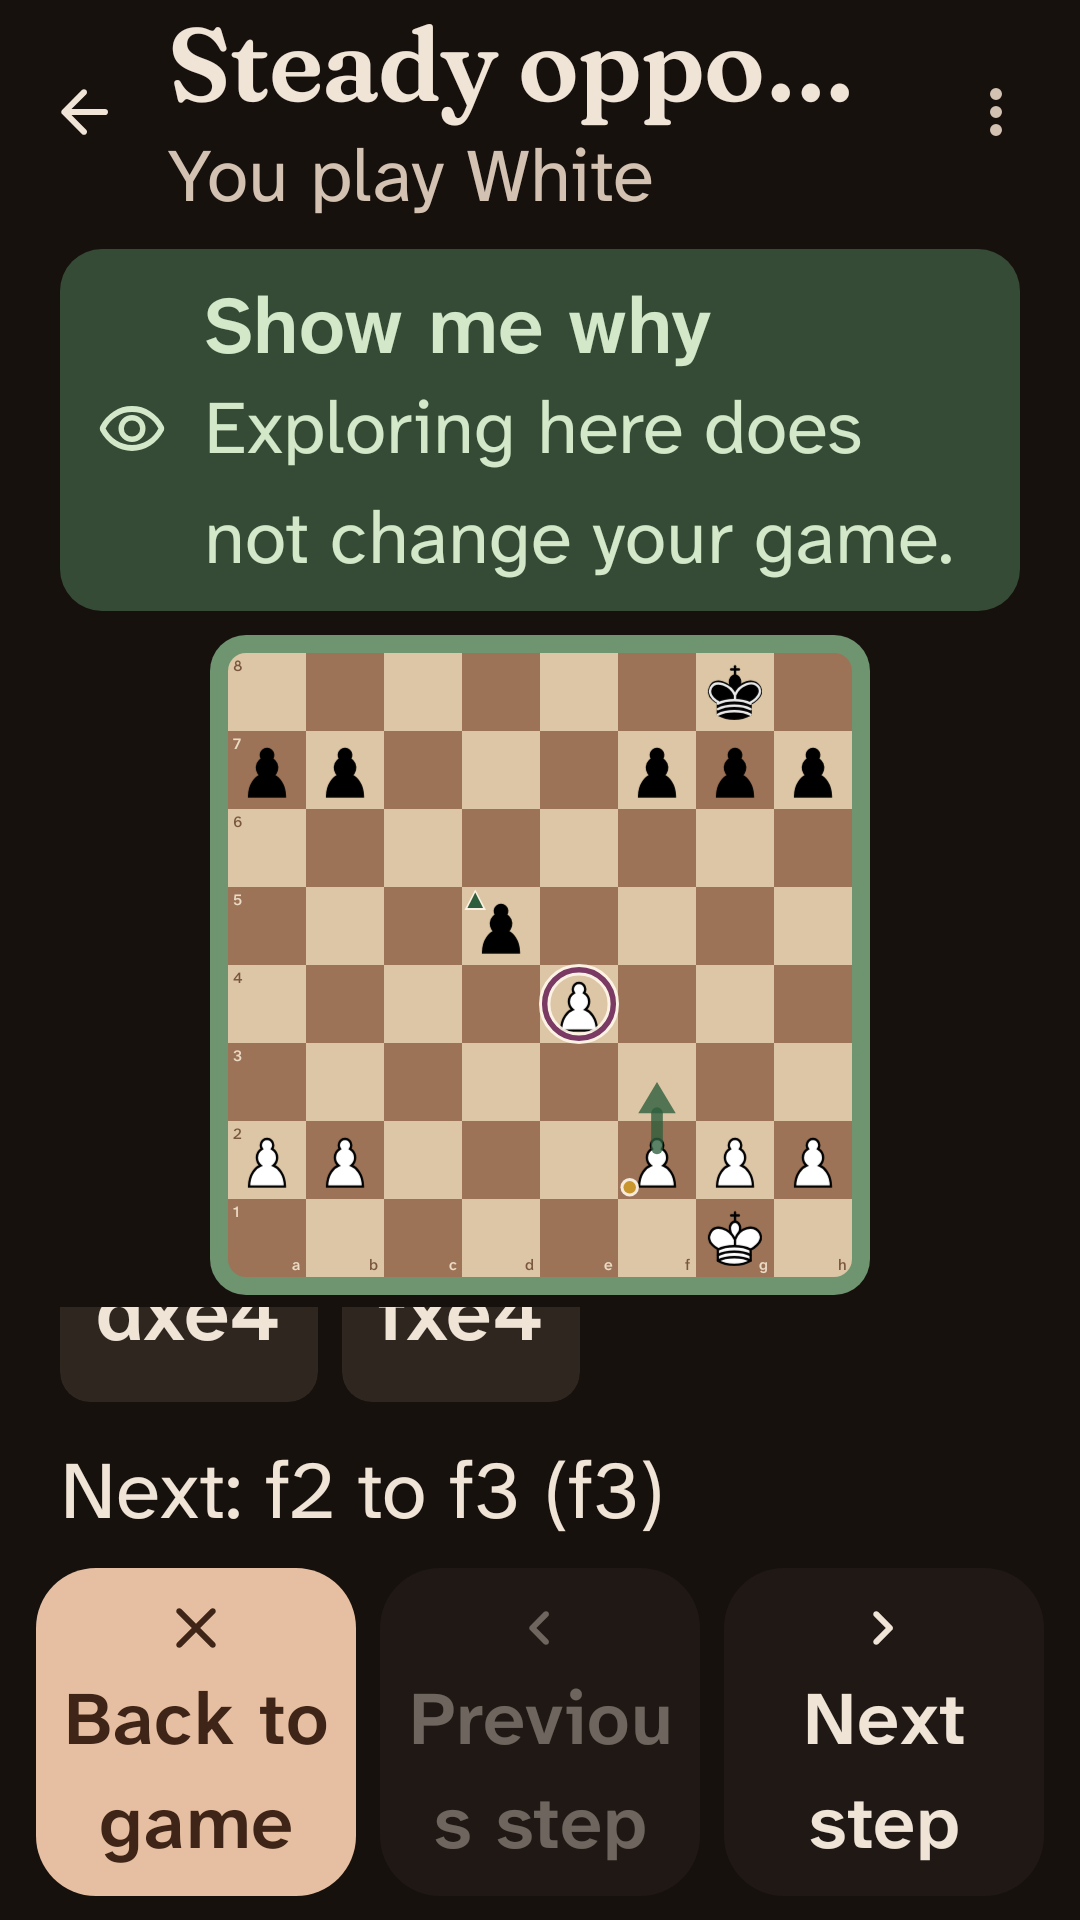
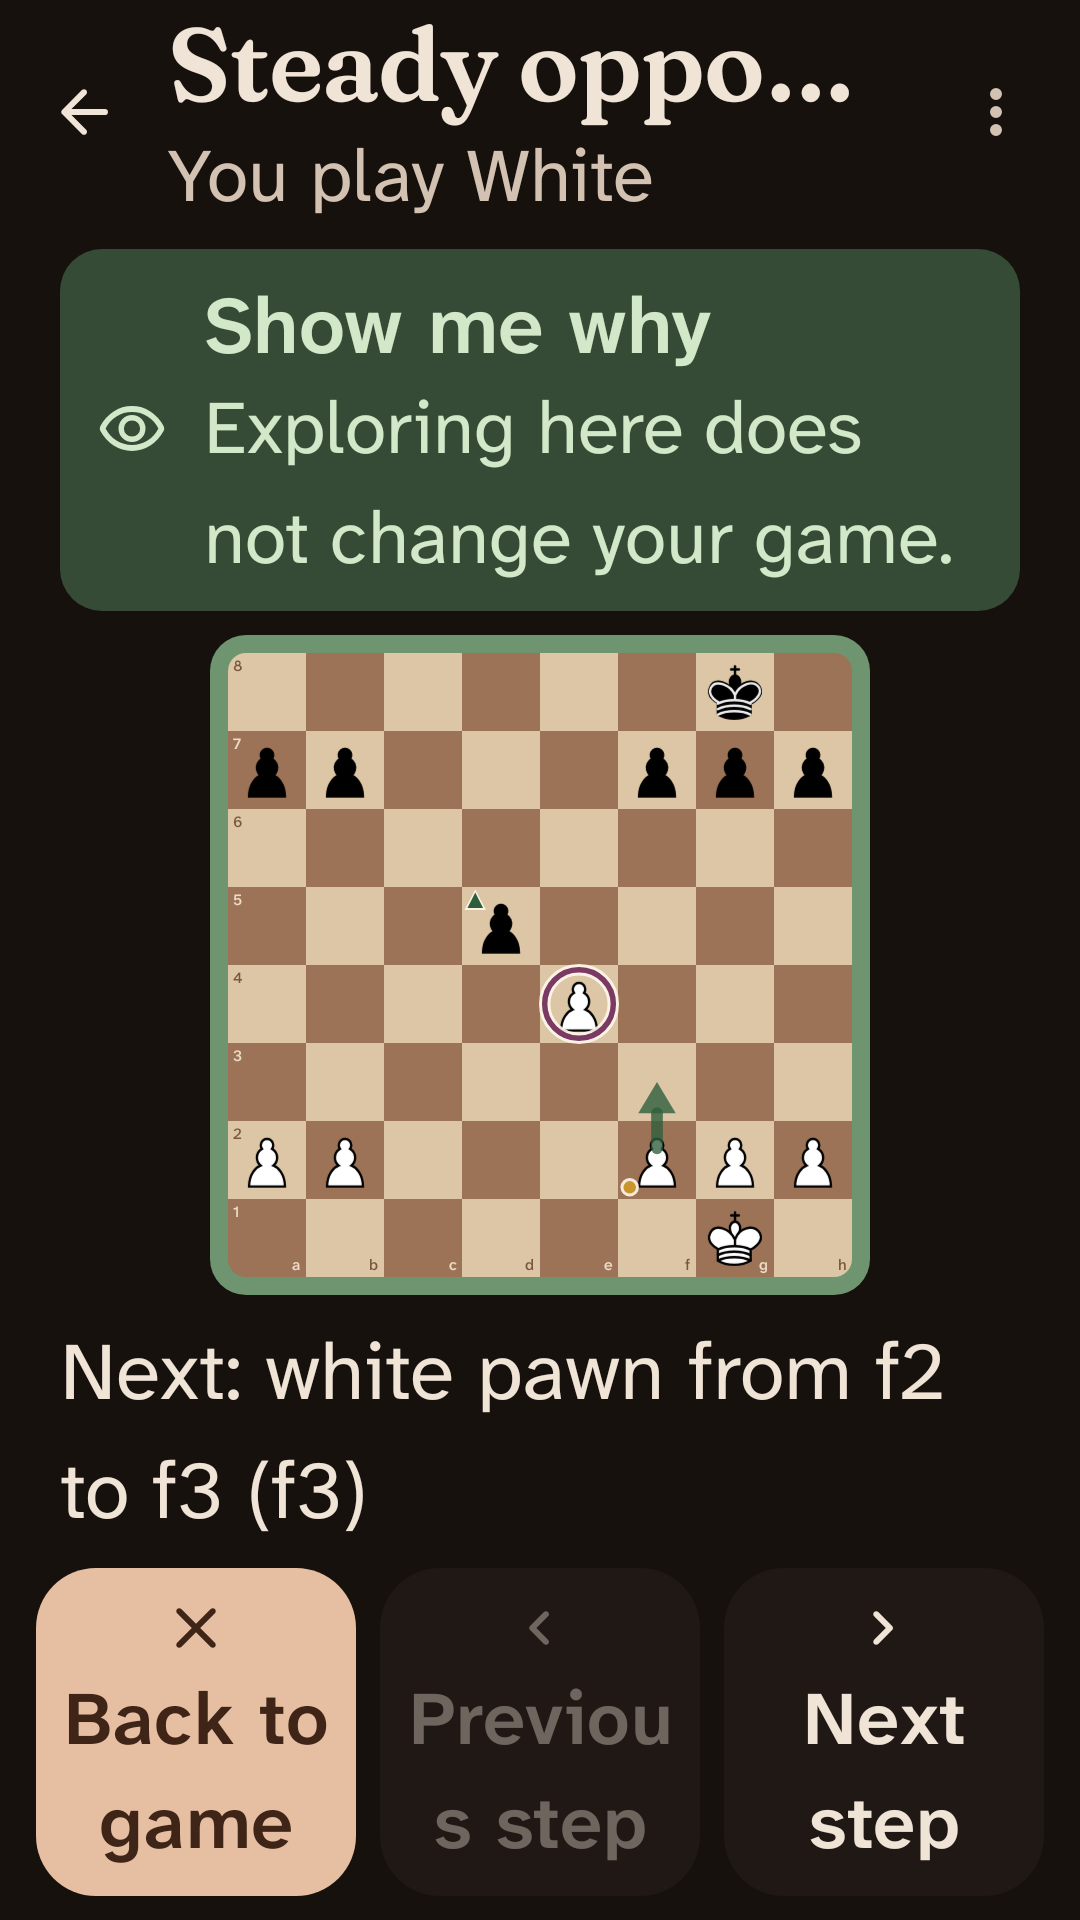
Clarify replay move announcements
Name the moving piece and its colour so replay announcements make sense
without relying on notation or the board. Attribute the alternative
capture to the coach while keeping the reply conditional.

Reuse the existing localized piece names and pre-move board snapshot.
Update the wording assertions and screenshots, including large text.

Changed region(s): [[0.0611, 0.6562, 0.6111, 0.8125], [0.6417, 0.6875, 0.8861, 0.75]]

diff --git a/app/src/test/kotlin/ch/lkmc/chessandcocoa/ui/ScreensTest.kt b/app/src/test/kotlin/ch/lkmc/chessandcocoa/ui/ScreensTest.kt
@@ -396,7 +396,7 @@ class ScreensTest {
         compose.onNodeWithContentDescription("e4, white pawn").assert(SemanticsMatcher.expectValue(SemanticsProperties.StateDescription, "target"))
         compose.onNodeWithContentDescription("d5, black pawn").assert(SemanticsMatcher.expectValue(SemanticsProperties.StateDescription, "attacker"))
         compose.onNodeWithContentDescription("e4, white pawn").assert(hasClickAction().not())
-        compose.onNodeWithText("Next: d5 to e4 (dxe4)").performScrollTo().assertIsDisplayed()
+        compose.onNodeWithText("Next: black pawn from d5 to e4 (dxe4)").performScrollTo().assertIsDisplayed()
         compose.onRoot().captureRoboImage(shot("pawn-loss-evidence"))
 
         compose.onNodeWithText("Next step").performClick()
@@ -410,7 +410,7 @@ class ScreensTest {
         compose.onRoot().captureRoboImage(shot("recapture-defense-evidence"))
         compose.onNodeWithText("Next step").performClick()
         compose.onNodeWithContentDescription("e4, black pawn").assertIsDisplayed()
-        compose.onNodeWithText("Next: f3 to e4 (fxe4)").performScrollTo().assertIsDisplayed()
+        compose.onNodeWithText("Next: white pawn from f3 to e4 (fxe4)").performScrollTo().assertIsDisplayed()
         compose.onRoot().captureRoboImage(shot("recapture-defense-step"))
         compose.onNodeWithText("Next step").performClick()
         compose.onNodeWithContentDescription("e4, white pawn").assertIsDisplayed()
@@ -439,7 +439,7 @@ class ScreensTest {
         val explanation = session.state.value.record!!.events.first { it.ply == 1 }.brief
         compose.onNodeWithText(explanation).performScrollTo().performClick()
         compose.onNodeWithText("Better alternative").performScrollTo().performClick()
-        compose.onNodeWithText("Next: f2 to f3 (f3)").performScrollTo().assertIsDisplayed()
+        compose.onNodeWithText("Next: white pawn from f2 to f3 (f3)").performScrollTo().assertIsDisplayed()
         compose.onRoot().captureRoboImage(shot("recapture-defense-compact-large-text"))
         compose.onNodeWithText("Next step").assertIsDisplayed().performClick()
         compose.onNodeWithContentDescription("f3, white pawn").assertIsDisplayed()

diff --git a/app/src/main/kotlin/ch/lkmc/chessandcocoa/ui/game/CoachPanel.kt b/app/src/main/kotlin/ch/lkmc/chessandcocoa/ui/game/CoachPanel.kt
@@ -56,6 +56,7 @@ import ch.lkmc.chessandcocoa.session.EvidenceLine
 import ch.lkmc.chessandcocoa.session.Phase
 import ch.lkmc.chessandcocoa.session.SessionState
 import ch.lkmc.chessandcocoa.ui.board.MarkGlyph
+import ch.lkmc.chessandcocoa.ui.board.pieceName
 import ch.lkmc.chessandcocoa.ui.board.roleLabel
 import ch.lkmc.chessandcocoa.ui.common.NotationChip
 import ch.lkmc.chessandcocoa.ui.common.toneColors
@@ -310,15 +311,18 @@ fun EvidencePanel(event: TeachingEvent, frames: List<EvidenceFrame>, step: Int, 
                 }
             }
         }
+        val frame = frames.getOrNull(step)
         val next = frames.getOrNull(step + 1)
         next?.board?.lastMove?.let { move ->
+            // Name the pre-move piece, including pawns about to promote.
+            val piece = frame?.board?.pieces?.get(move.from) ?: return@let
             Text(
-                stringResource(R.string.evidence_next_move, move.from.name, move.to.name, next.san.orEmpty()),
+                stringResource(R.string.evidence_next_move, pieceName(piece), move.from.name, move.to.name, next.san.orEmpty()),
                 style = MaterialTheme.typography.bodyMedium,
                 modifier = Modifier.semantics { liveRegion = LiveRegionMode.Polite },
             )
         }
-        val marks = frames.getOrNull(step)?.marks.orEmpty()
+        val marks = frame?.marks.orEmpty()
         if (marks.isNotEmpty()) MarkLegend(marks.map { it.role }.toSet())
 
         event.expanded.forEach { line ->

diff --git a/coach/src/main/kotlin/ch/lkmc/chessandcocoa/coach/render/Renderer.kt b/coach/src/main/kotlin/ch/lkmc/chessandcocoa/coach/render/Renderer.kt
@@ -96,7 +96,7 @@ object Renderer {
             else -> "That move leaves your $piece without enough defenders. $capture"
         }
         val defense = claim.defense?.sans ?: return consequence
-        return "$consequence ${defense[0]} would let you recapture: after ${defense[1]}, you could play ${defense[2]}."
+        return "$consequence ${defense[0]} would let you recapture: if I play ${defense[1]}, you could play ${defense[2]}."
     }
 
     private fun quality(claim: Claim.MoveQuality, numbers: NumberDetail): String {

diff --git a/coach/src/test/kotlin/ch/lkmc/chessandcocoa/coach/MoveAssessorTest.kt b/coach/src/test/kotlin/ch/lkmc/chessandcocoa/coach/MoveAssessorTest.kt
@@ -56,7 +56,7 @@ class MoveAssessorTest {
         assertTrue(exposed.alreadyExposed)
         val text = Renderer.render(exposed)
         assertTrue("pawn on e4" in text, text)
-        assertTrue("f3" in text && "fxe4" in text, text)
+        assertTrue("f3" in text && "if I play dxe4" in text && "fxe4" in text, text)
         val defense = assertNotNull(exposed.defense)
         assertEquals(listOf("f3", "dxe4", "fxe4"), defense.sans)
         assertEquals(parent.ply, defense.fromPly)
